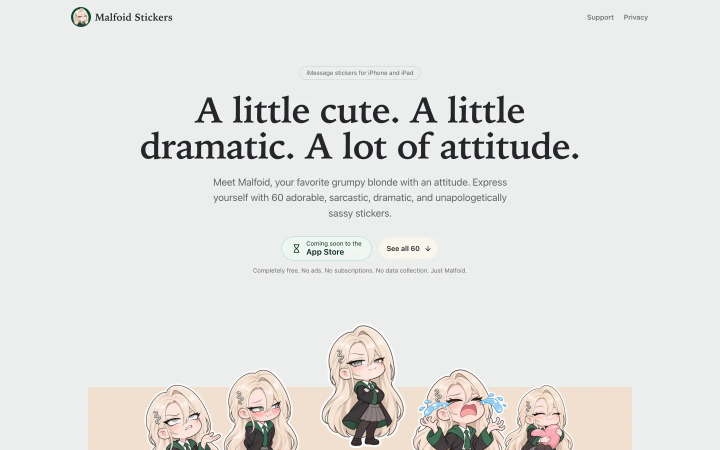
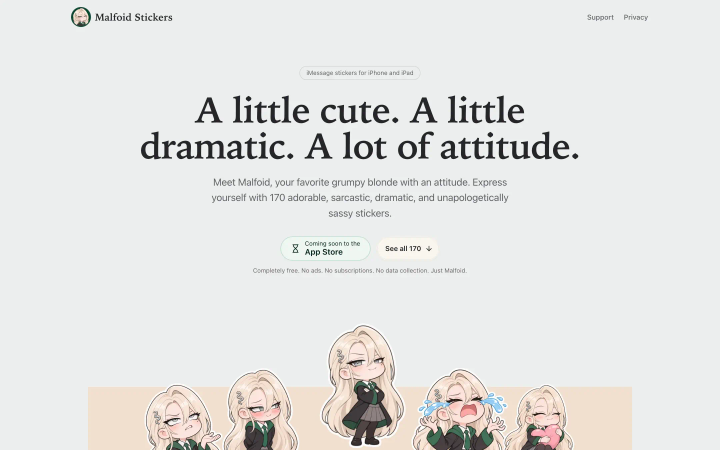
docs(sdxc-site): Bring the Malfoid Stickers case study up to 170 stickers
The Malfoid Stickers case study on sdxc.dev now describes the pack as it
ships: 170 stickers in seventeen sets, the everyday cards and the row of
holiday sets in the table of contents, the gallery's two groups, and a
viewer whose counter keeps its own line on a phone. Its screenshots are
retaken from the live page, with a new one of the occasions row. No action
needed.

Changed region(s): [[0.275, 0.4356, 0.7028, 0.4667], [0.3972, 0.5289, 0.5806, 0.5911]]

diff --git a/apps/sdxc-site/resources/content/showcase/malfoid.md b/apps/sdxc-site/resources/content/showcase/malfoid.md
@@ -1,7 +1,7 @@
 ---
 title: Malfoid Stickers
 headline: Selling an iMessage sticker pack by letting every sticker answer a message
-summary: The landing, support desk and privacy policy for Malfoid Stickers, a free pack of 60 iMessage stickers, server-rendered in English and Spanish from the @sdxc/ui landing kit.
+summary: The landing, support desk and privacy policy for Malfoid Stickers, a free pack of 170 iMessage stickers, server-rendered in English and Spanish from the @sdxc/ui landing kit.
 tagline: An iMessage sticker pack's landing
 cover: hero
 shots:
@@ -15,7 +15,11 @@ shots:
   - id: moods
     page: "https://sergiodxa.com/apps/malfoid"
     highlight: "#moods ul"
-    alt: Six cards for the pack's moods, each with the sticker that stands for it, what the mood is for and a link to its ten stickers.
+    alt: Eight cards for the pack's everyday sets, each with the sticker that stands for it, what the set is for and a link to its ten stickers.
+  - id: occasions
+    page: "https://sergiodxa.com/apps/malfoid"
+    highlight: "#moods div:has(> ul > li > a[href='#thanksgiving'])"
+    alt: A row of nine tiles for the holiday sets, from Thanksgiving to Earth Day, each with a sticker dressed for the day.
   - id: viewer
     page: "https://sergiodxa.com/apps/malfoid"
     click: "#stickers [data-lightbox-index='59']"
@@ -35,9 +39,9 @@ shots:
     alt: The landing in Spanish on a phone, the short headline "Tierna. Dramática. Con actitud." above three stickers on the cream stage.
 ---
 
-Malfoid Stickers is a free pack of 60 iMessage stickers for iPhone and iPad, and [sergiodxa.com/apps/malfoid](https://sergiodxa.com/apps/malfoid) is the page its App Store listing names as its Marketing URL. Beside it sit the listing's Support URL, a contact form at `/apps/malfoid/support`, and its privacy policy at `/apps/malfoid/privacy`. The blog's Worker serves all three on the blog's domain, in the pack's own palette of emerald, ivory, platinum cream and blush on a silver-mint ground, with a header and footer of their own.
+Malfoid Stickers is a free pack of 170 iMessage stickers for iPhone and iPad, and [sergiodxa.com/apps/malfoid](https://sergiodxa.com/apps/malfoid) is the page its App Store listing names as its Marketing URL. Beside it sit the listing's Support URL, a contact form at `/apps/malfoid/support`, and its privacy policy at `/apps/malfoid/privacy`. The blog's Worker serves all three on the blog's domain, in the pack's own palette of emerald, ivory, platinum cream and blush on a silver-mint ground, with a header and footer of their own.
 
-A sticker pack has no screens to show and no features to list: the product is the artwork, and what it does is answer a message. So the page leads with the art and shows it doing that job. Malfoid answers a friend in the second band, the six moods work as a table of contents, and every one of the 60 stickers opens in a viewer where it replies to a message of its own. Nothing on the page is a description standing in for a sticker. The bands come from the `@sdxc/ui` landing kit, and every word is rendered on the server in English or Spanish.
+A sticker pack has no screens to show and no features to list: the product is the artwork, and what it does is answer a message. So the page leads with the art and shows it doing that job. Malfoid answers a friend in the second band, its seventeen sets work as a table of contents, and every one of the 170 stickers opens in a viewer where it replies to a message of its own. Nothing on the page is a description standing in for a sticker. The bands come from the `@sdxc/ui` landing kit, and every word is rendered on the server in English or Spanish.
 
 ## The brief
 
@@ -55,13 +59,15 @@ The second band introduces Malfoid in two sentences beside a conversation: a fri
 
 ![A conversation answered with stickers](/showcase/malfoid/meet.webp "Two messages from a friend, each answered with a sticker instead of words.")
 
-The moods band is a table of contents: six cards, one per mood, each with the sticker that stands for it, a line about when to reach for it, and a link to its ten stickers further down.
+The next band is a table of contents for the pack's seventeen sets of ten. The eight everyday sets, six moods plus friendship and memes, each get a card with the sticker that stands for it, a line about when to reach for it, and a link to its stickers further down. The nine occasions, Thanksgiving to Earth Day, follow as a compact row of tiles, each with a sticker dressed for the day; a name that runs to two lines stretches the whole row, so the tiles stay one height.
 
-![The six moods](/showcase/malfoid/moods.webp "Each mood card shows its sticker and jumps to its ten stickers in the gallery.")
+![The everyday sets](/showcase/malfoid/moods.webp "Each everyday set gets a card with its sticker and a jump to its ten stickers in the gallery.")
+
+![The occasions](/showcase/malfoid/occasions.webp "The holiday sets sit in one row of tiles below them.")
 
 ## Sixty stickers, each answering a message
 
-The gallery lists all 60 stickers under their moods in rows of ten, five on a narrow screen, so every row is full. Each tile is a [Lightbox](/api/ui/lightbox) trigger, a plain button with `command="show-modal"` that opens a native `<dialog>` at that sticker. A slide shows a message a friend might send, "Should I text my ex?" or "Tomorrow is Monday again.", and the sticker answering it at full size, with its description beneath. The arrows, a swipe or the keyboard step through all 60. Every message is written in both languages, and the slide's accessible name reads the exchange as a sentence.
+The gallery lists all 170 stickers set by set, under two headings, every day and occasions, in rows of ten, five on a narrow screen, so every row is full. Each tile is a [Lightbox](/api/ui/lightbox) trigger, a plain button with `command="show-modal"` that opens a native `<dialog>` at that sticker. A slide shows a message a friend might send, "Should I text my ex?" or "Tomorrow is Monday again.", and the sticker answering it at full size, with its description beneath. The arrows, a swipe or the keyboard step through all 170 in the gallery's order, and on a phone the counter keeps its own line above the description, so the sticker never jumps between slides. Every message is written in both languages, and the slide's accessible name reads the exchange as a sentence.
 
 ![The sticker viewer](/showcase/malfoid/viewer.webp "Each sticker opens answering a message of its own, with its description as the caption.")
 
